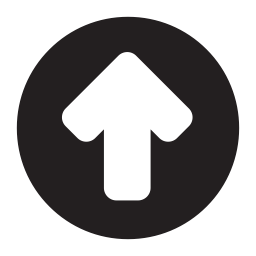
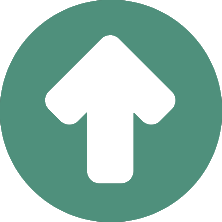
Изменен цвет иконок в меню на зеленый. Добавлен вывод фотографий пользователя на странице 'Мои фото'

diff --git a/my_server/flask_server/static/scripts/my_photo.js b/my_server/flask_server/static/scripts/my_photo.js
@@ -1,0 +1,135 @@
+"use strict"
+
+
+class Column {
+    constructor(elementId) {
+        this.self = document.getElementById(elementId);
+        this.height = 0;
+    }
+
+    changeHeight(height) {
+        this.height += height;
+    }
+
+    addImage(image) {
+        let mainDiv = document.createElement("div");
+        let divImageContainer = document.createElement("div");
+
+        mainDiv.classList.add("img_container");
+        divImageContainer.classList.add("left_side_img_container");
+        divImageContainer.append(image);
+        mainDiv.append(divImageContainer);
+
+        this.self.append(mainDiv);
+    }
+}
+
+class Image {
+    constructor(imageObject) {
+        this.node = document.createElement("img");
+        this.node.src = `/static/users/${imageObject.user_id}/images/${imageObject.image_file}`;
+        this.node.className = "img";
+
+        this.tagList = imageObject.tag_list;
+        this.fileName = imageObject.image_file;
+        this.userId = imageObject.user_id;
+        this.description = imageObject.description;
+        this.creationDate = imageObject.creation_date;
+        this.htwRatio = imageObject.htwRatio;
+        this.hidden = imageObject.hidden;
+    }
+
+    hide() {
+        this.node.classList.add("hidden");
+    }
+
+    show() {
+        this.node.classList.remove("hidden");
+    }
+}
+
+function initializePage(imageList, columns, images) {
+    const columnWidth = columns[0].self.offsetWidth;
+    for(let i = 0; i < imageList.length; i++) {
+        let minHeight = 10000;
+        let currentColumn = null;
+        columns.forEach(column => (column.height < minHeight)? [minHeight, currentColumn] = [column.height, column]: null);
+
+        images.push(new Image(imageList[i]));
+        currentColumn.addImage(images[i].node);
+
+        currentColumn.changeHeight(imageList[i].htwRatio * columnWidth);
+    }
+}
+
+// Список столбцов, куда будут добавляться фотографии
+let columns = [new Column("img_column1"),
+               new Column("img_column2")];
+
+// Список объектов класса Image. Используется при поиске.
+let images = [];
+
+// Список питоновских объектов фотографий. Используется при инициализации страницы.
+let imageList = [];
+
+let currentUserId = 0;
+
+let current_active_element;
+
+// Promise на получение фотографий с сервера при открытии страницы
+let promise = new Promise(function(resolve, reject) {
+    $.ajax({
+        type: 'POST',
+        url: '/ajax',
+        contentType: 'application/json',
+        dataType: 'json',
+        data: JSON.stringify({"action": "get_my_images"}),
+        success: function(data) {
+            imageList = data;
+            resolve('result');
+        },
+        error: function() {
+            reject(new Error("Произошла ошибка( Попробуйте перезагрузить страницу."));
+        }
+    });
+});
+promise.then(function(result) {
+    // Создает фотографии на странице
+    initializePage(imageList, columns, images);
+
+    //const imagesNodeList = images.map(image => image.node);
+
+    /*
+    // Навешиваем обработчик кликов на фотографии. При клике появляется широкая область с описанием фотографии.
+    [].forEach.call(imagesNodeList, function(imageNode, index) {
+        imageNode.addEventListener('click', function() {
+
+
+
+            if(current_active_element) {
+                document.querySelector(".description_zone").remove();
+                document.querySelector(".close").remove();
+                document.querySelectorAll(".arrow").forEach(arrow => arrow.remove());
+                document.querySelector(".active_img").classList.remove("active_img");
+                current_active_element.classList.remove("active_container");
+            }
+
+            // Кнопка крест в правом верхнем углу
+            let closeButton = document.createElement("span");
+            closeButton.classList.add("close");
+            current_active_element.append(closeButton);
+
+            closeButton.addEventListener("click", function(self) {
+                document.querySelector(".description_zone").remove();
+                document.querySelector(".close").remove();
+                document.querySelectorAll(".arrow").forEach(arrow => arrow.remove());
+                current_active_element.classList.remove("active_container");
+
+                current_active_element = null;
+            });
+        });
+    });
+    */
+});
+promise.catch(error => alert(error));
+

diff --git a/my_server/flask_server/templates/layout.html b/my_server/flask_server/templates/layout.html
@@ -52,38 +52,38 @@
         </div>
         <div id="content_wrapper">
             <div class="center center_content_wrapper">
-                <div class="main menu asider_height">
-                    <hr class="hr">
-                    <h1 class="aside_title">Меню</h1>
-                    {% if current_user.is_authenticated %}
-                        <div class="menu_links_container">
-                            <div class="link_div">
-                                <a href="{{ url_for('account') }}" class="menu_link">
-                                    <img src="/static/home.png">
-                                    Профиль
-                                </a>
+                {% if current_user.is_authenticated %}
+                    <div class="main menu asider_height">
+                        <hr class="hr">
+                        <h1 class="aside_title">Меню</h1>
+                            <div class="menu_links_container">
+                                <div class="link_div">
+                                    <a href="{{ url_for('account') }}" class="menu_link">
+                                        <img src="/static/home.png">
+                                        Профиль
+                                    </a>
+                                </div>
+                                <div class="link_div">
+                                    <a href="{{ url_for('my_images') }}" class="menu_link">
+                                        <img src="/static/camera.png">
+                                        Мои фото
+                                    </a>
+                                </div>
+                                <div class="link_div">
+                                    <a href="{{ url_for('upload') }}" class="menu_link">
+                                        <img src="/static/download.png">
+                                        Загрузка
+                                    </a>
+                                </div>
+                                <div class="link_div">
+                                    <a href="{{ url_for('search') }}" class="menu_link">
+                                        <img src="/static/search.png">
+                                        Поиск
+                                    </a>
+                                </div>
                             </div>
-                            <div class="link_div">
-                                <a href="{{ url_for('my_images') }}" class="menu_link">
-                                    <img src="/static/camera.png">
-                                    Мои фото
-                                </a>
-                            </div>
-                            <div class="link_div">
-                                <a href="{{ url_for('upload') }}" class="menu_link">
-                                    <img src="/static/download.png">
-                                    Загрузка
-                                </a>
-                            </div>
-                            <div class="link_div">
-                                <a href="{{ url_for('search') }}" class="menu_link">
-                                    <img src="/static/search.png">
-                                    Поиск
-                                </a>
-                            </div>
-                        </div>
-                    {% endif %}
-                </div>
+                    </div>
+                {% endif %}
                 <div id="content_wrapper2">
                     {% block content %}{% endblock %}
                 </div>

diff --git a/my_server/flask_server/static/styles/my_images.css b/my_server/flask_server/static/styles/my_images.css
@@ -1,36 +1,58 @@
+#content_wrapper2 {
+    display: flex;
+    flex-direction: column;
+
+    max-height: 1000px;
+}
 .content_columns_wrapper {
     flex-grow: 1;
-    height: 100%;
+    height: 500px;
+    max-height: 500px;
 
     display: flex;
     flex-direction: row;
     justify-content: space-between;
+
+    margin-bottom: 15px;
 }
 
 .content_column {
-
+    display: flex;
+    flex-direction: column;
+    height: 500px;
 }
 .content_column:first-child {
     flex-grow: 1;
 }
     #photo_zone {
-        height: 400px;
+        height: 100%;
         background: white;
         box-shadow: 0 4px 16px #ccc;
         border-radius: 10px;
     }
     #tags_zone {
-        height: 300px;
-        margin-top: 15px;
+        width: 100%;
+        flex-grow: 1;
+        min-height: 250px;
         background: white;
         box-shadow: 0 4px 16px #ccc;
         border-radius: 10px;
     }
 .content_column:last-child {
-    width: 300px;
+    width: 350px;
     background: white;
     box-shadow: 0 4px 16px #ccc;
-    height: 715px;
     margin-left: 15px;
     border-radius: 10px;
+}
+
+.img_column {
+    width: 50%;
+}
+    .img_column:first-child {
+        margin-left: 10px;
+    }
+.img_column img {
+    width: 100%;
+    max-width: 100%;
 }

diff --git a/my_server/flask_server/templates/my_images.html b/my_server/flask_server/templates/my_images.html
@@ -9,13 +9,22 @@
                 <hr class="hr">
                 <h1 class="aside_title">Изменение фото</h1>
             </div>
-            <div id="tags_zone">
-
-            </div>
         </div>
         <div class="content_column">
             <hr class="hr">
-            <h1 class="aside_title">Ваши фото</h1>
+            <h1 class="aside_title">Мои фото</h1>
+            <div style="display: flex; flex-direction: row; overflow: scroll; overflow-x: hidden; max-height: 100%;" class="scroll">
+                <div id="img_column1" class="img_column">
+
+                </div>
+                <div id="img_column2" class="img_column">
+
+                </div>
+            </div>
         </div>
     </div>
+    <div id="tags_zone">
+
+    </div>
+    <script src="{{ url_for('static', filename='scripts/my_photo.js', v=1) }}"></script>
 {% endblock content %}

diff --git a/my_server/flask_server/static/styles/global_settings.css b/my_server/flask_server/static/styles/global_settings.css
@@ -51,6 +51,7 @@ body {
     }
     .link_div {
         height: 30px;
+        margin-top: 1px;
     }
     .menu_link {
         font-size: 18px;
@@ -62,8 +63,9 @@ body {
     .menu_link img {
         float: left;
         width: 30px;
-        height: 30px;
+        height: 25px;
         margin-right: 3px;
+        margin-left: 1px;
     }
     .menu_link:hover {
         background: #f0f0f0;

diff --git a/my_server/flask_server/static/styles/login.css b/my_server/flask_server/static/styles/login.css
@@ -24,6 +24,7 @@
 }
 
 .form_title {
+    color: #3d9480;
     text-align: center;
     margin: 0 0 32px 0;
     font-weight: normal;

diff --git a/my_server/flask_server/static/styles/register.css b/my_server/flask_server/static/styles/register.css
@@ -23,6 +23,7 @@
 }
 
 .form_title {
+    color: #3d9480;
     text-align: center;
     margin: 0 0 32px 0;
     font-weight: normal;

diff --git a/my_server/flask_server/routes.py b/my_server/flask_server/routes.py
@@ -28,6 +28,8 @@ def ajax():
         db.session.commit()
         # Разница между текущими тегами и бывшими(добавленные теги)
         result = list(set(current_user.user_tag_list) - set(old_tag_list))
+    elif action == "get_my_images":
+        result = [i.as_dict() for i in Post.query.filter_by(user_id=current_user.id)]
     return jsonify(result)
 
 
